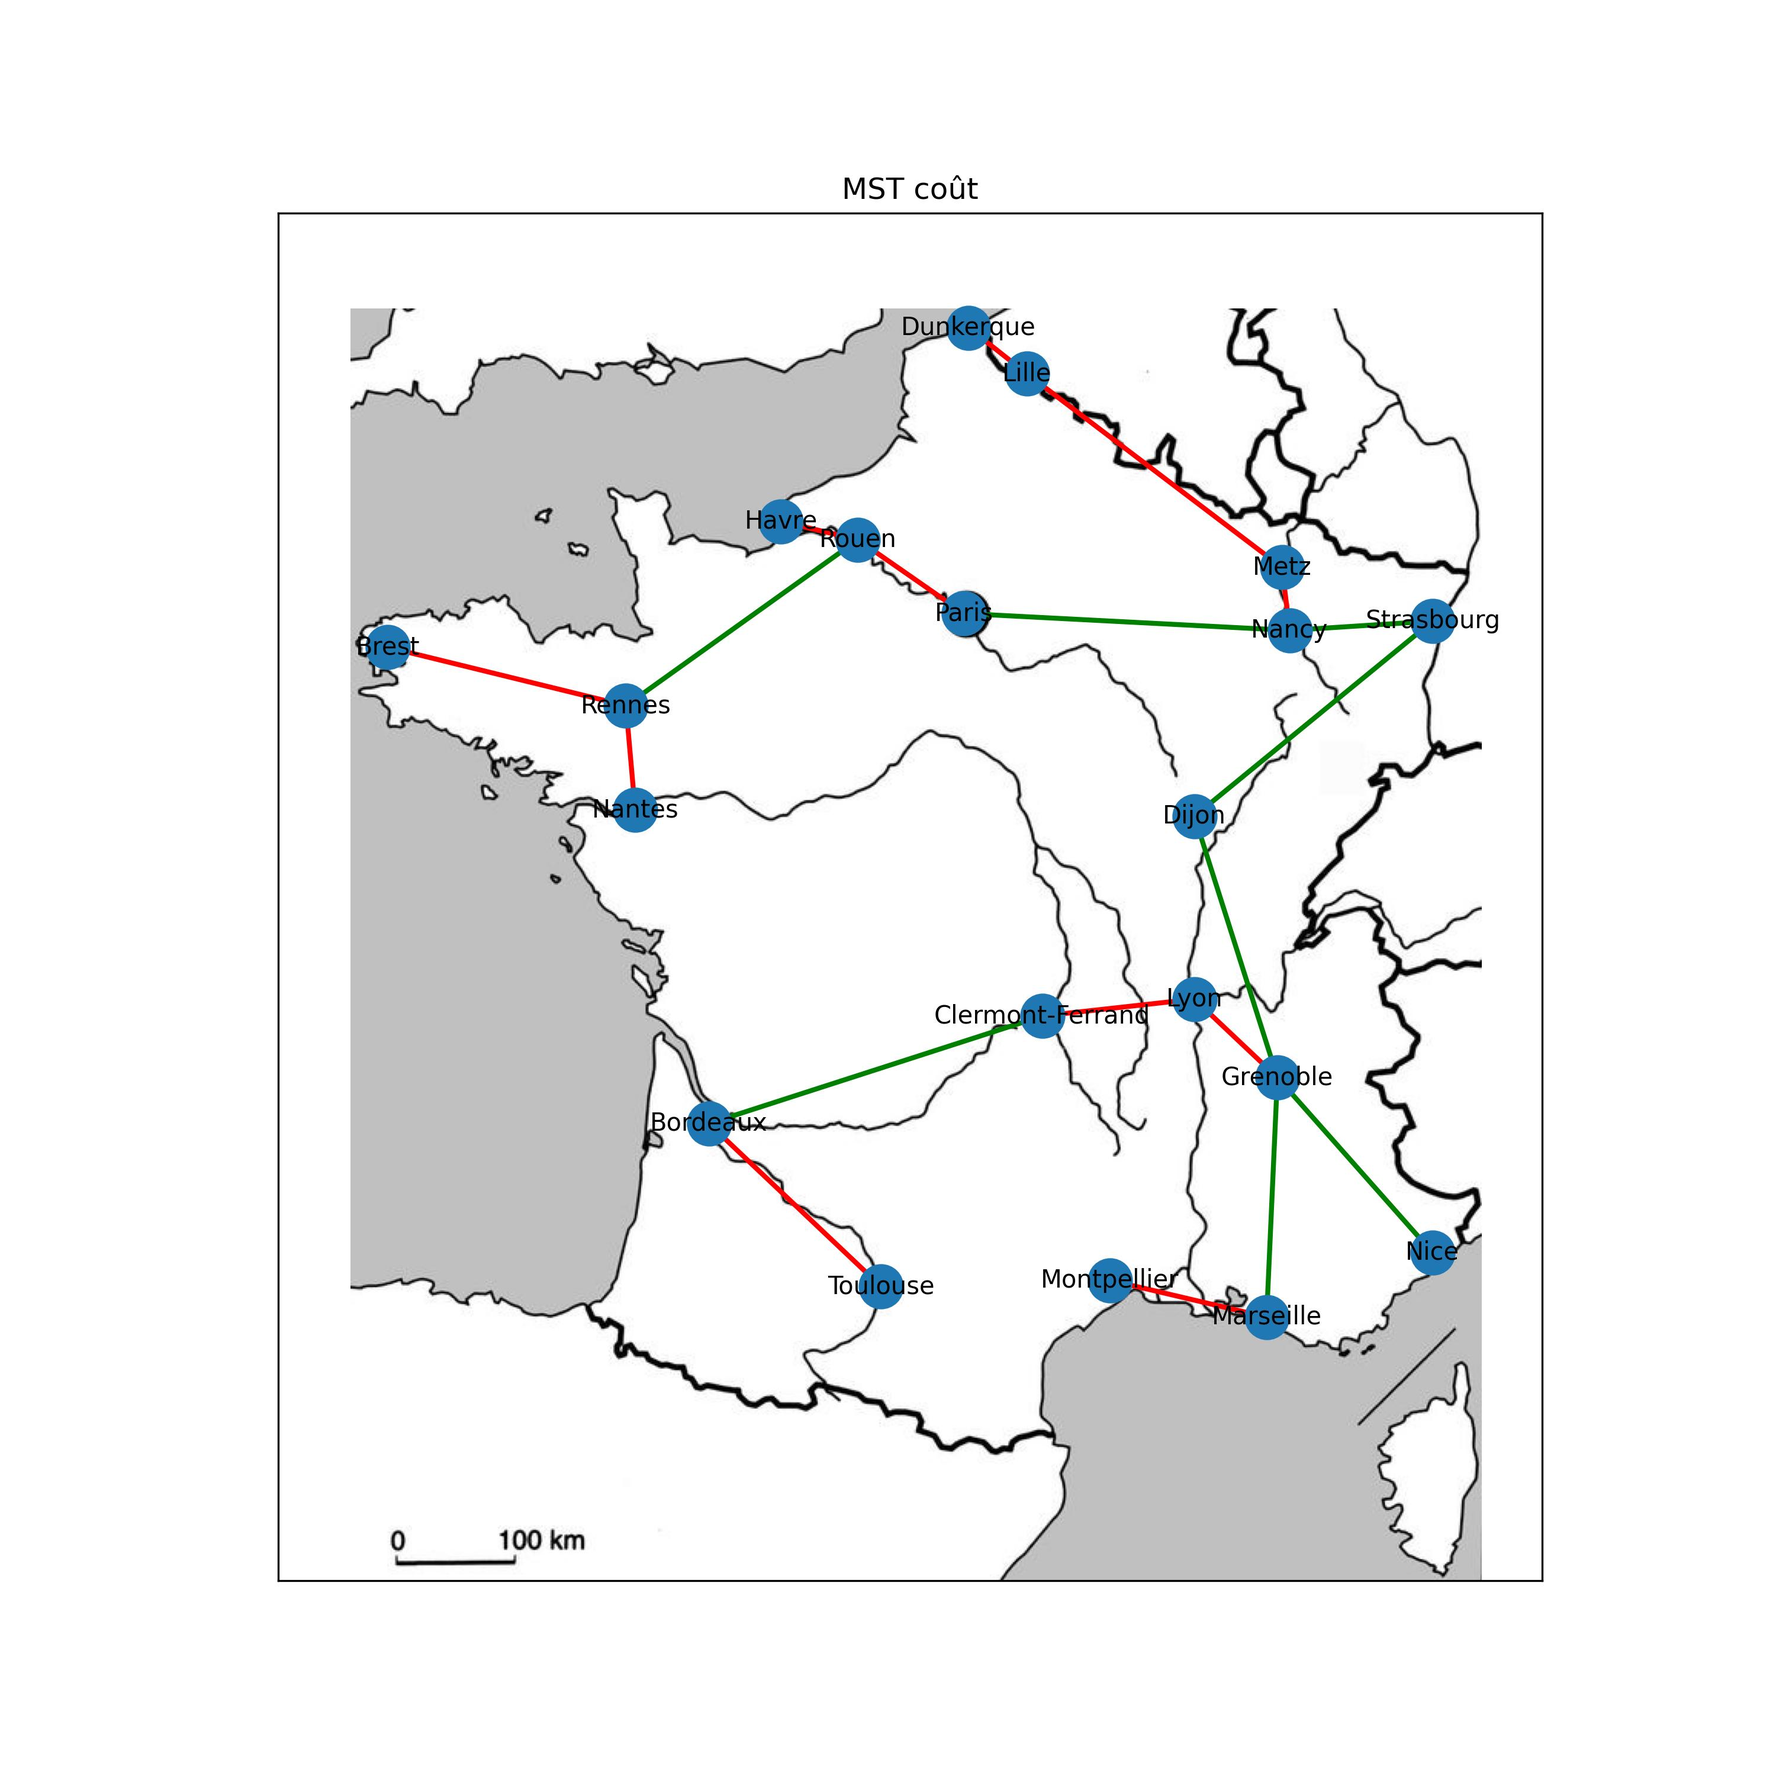
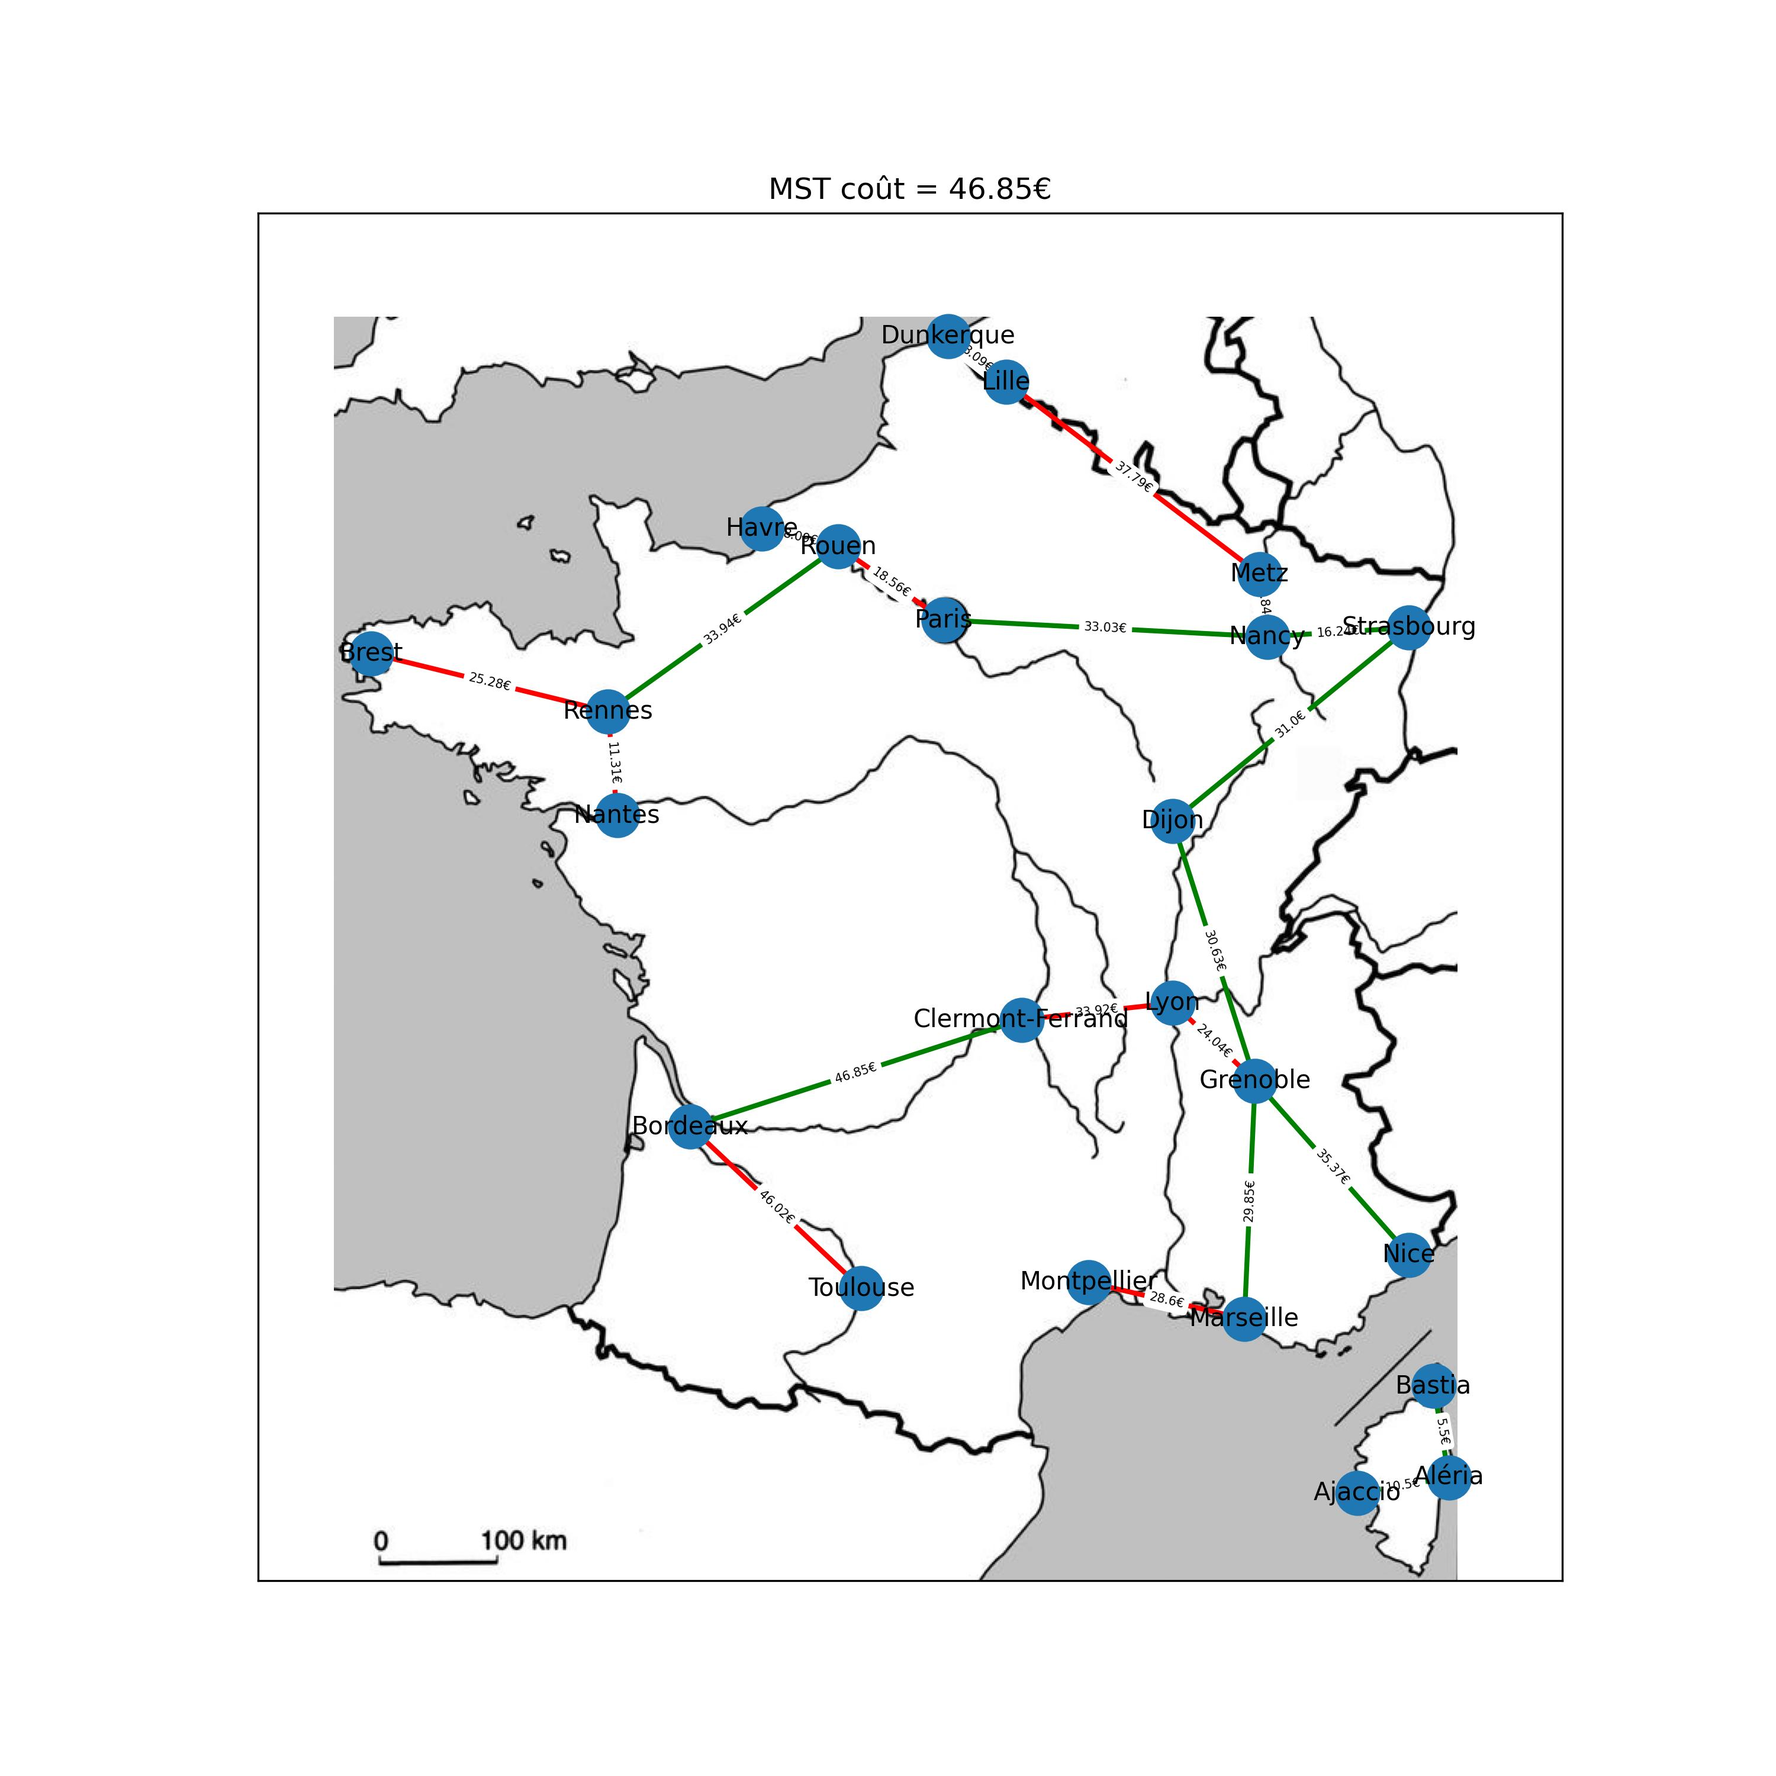
bonus MST manuel

diff --git a/TP2_carte_son.py b/TP2_carte_son.py
@@ -4,6 +4,7 @@ import networkx as nx
 import matplotlib.pyplot as plt
 import matplotlib.image as mpimg
 
+
 # Fonction pour charger CSV en matrice
 def charger_csv_en_matrice(nom_fichier) -> list:
     matrice = []
@@ -242,11 +243,11 @@ def meilleur_chemin(graphe, ville_depart, ville_arrivee, critere, debug=False) -
 
     # Etape 0: vérifier si les villes données sont valides
     if ville_depart not in graphe:
-        msg = f"{ville_depart} n'est pas présente dans la carte"
+        msg = f"    {ville_depart} n'est pas présente dans la carte"
         print(msg)        
         return [msg],0
     if ville_arrivee not in graphe:
-        msg = f"{ville_depart} n'est pas présente dans la carte"
+        msg = f"    {ville_depart} n'est pas présente dans la carte"
         print(msg)        
         return [msg],0
     if ville_depart==ville_arrivee:
@@ -272,7 +273,7 @@ def meilleur_chemin(graphe, ville_depart, ville_arrivee, critere, debug=False) -
 
         # Si nous avons déjà trouvé un chemin plus court pour 'u', ignorer cette entrée et reprendre la boucle WHILE
         if dist_nouvelle > distances[u]:
-            if debug: print(f'>>    On a déjà une distance plus petite pour {u} (actuelle {distances[u]}; nouvelle {dist_nouvelle})') 
+            if debug: print(f'>>    [IGNORE] On a déjà une distance plus petite pour {u} (actuelle {distances[u]}; nouvelle {dist_nouvelle})') 
             continue
         
         # Si la destination est atteinte, STOP la boucle While
@@ -287,16 +288,20 @@ def meilleur_chemin(graphe, ville_depart, ville_arrivee, critere, debug=False) -
             if debug: print(f'>>    De {u} à {v}: distance = {poids}') 
             
             nouvelle_distance = dist_nouvelle + poids
-            if debug: print(f'>>    Nouvelle distance de {v} = {nouvelle_distance}') 
+            if debug: print(f'>>    Nouvelle distance de {v} par rapport à {ville_depart} = {nouvelle_distance}')
+            if debug: print(f'>>    Pour {v}, on compare la distance notée ({distances[v]}) et la nouvelle distance ({nouvelle_distance})') 
 
             # 2b. Mettre à jour le poid du voisin v si on trouve un chemin plus court vers lui
             if nouvelle_distance < distances[v]:
                 distances[v] = nouvelle_distance
-                if debug: print(f'>>    Meilleure distance trouvée pour {v} = {nouvelle_distance}') 
+                if debug: print(f'>>    [MAJ] Pour {v}, la nouvelle distance trouvée est meilleure ({nouvelle_distance})') 
 
                 predecesseurs[v] = u
-                if debug: print(f'>>    Mettre à jour le chemin vers {v} en passant par {u}') 
+                if debug: print(f'>>    [MAJ] Mettre à jour le chemin vers {v} en passant par {u}\n') 
                 heapq.heappush(pq, (nouvelle_distance, v))
+            else: 
+                if debug: print(f'>>    [IGNORE] Pour {v}, la distance notée est meilleure ({distances[v]})\n') 
+
 
     # 3. Reconstruction du chemin
     meilleur_chemin = []
@@ -340,7 +345,7 @@ def connexe_manuel(graphe) -> tuple[bool, list]:
         if ville_depart in sommets_vu:
             continue
 
-        print(f"Exploration à partir de: {ville_depart}")
+        print(f"    Exploration à partir de: {ville_depart}")
 
         # DFS
         stack = [ville_depart]
@@ -357,7 +362,7 @@ def connexe_manuel(graphe) -> tuple[bool, list]:
                     stack.append(neighbor)
 
                     # Show progress
-                    print(f"{neighbor} est connectée")
+                    print(f"        {neighbor} est connectée")
 
         continents.append(continent)
 
@@ -403,10 +408,49 @@ def all_paths_with_costs(graphe, ville_depart, ville_arrivee, critere="cout"):
     return results
 
 # BONUS4: Kruskal MST
-def find_mst(graphe, critere="cout"):
-    T = nx.minimum_spanning_tree(graphe, weight=critere)
+def find_mst(graphe, critere="cout", debug=False):
+    # T = nx.minimum_spanning_tree(graphe, weight=critere)
     
-    return T
+    # manuel
+    def dfs_path_exists(T, source, target):
+        visited = set()
+        stack = [source]
+
+        while stack:
+            node = stack.pop()
+            if node == target:
+                return True
+            if node not in visited:
+                visited.add(node)
+                for voisin in T.neighbors(node):
+                    if voisin not in visited:
+                        stack.append(voisin)
+        return False
+
+    T = nx.Graph()
+    T.add_nodes_from(graphe.nodes(data=True))
+
+    heap = []
+    for u, v, data in graphe.edges(data=True):
+        poid = data[critere]
+        heapq.heappush(heap, (poid, u, v, data))
+
+    poids_total = 0
+
+    while heap:
+        poid, u, v, data = heapq.heappop(heap)
+        if not dfs_path_exists(T, u, v):
+            T.add_edge(u, v, **data)
+            poids_total =+ poid
+            if debug: print(f'>>  [MAJ]     {poid}, {u} - {v}, {data}')
+        else:
+            if debug: print(f'>>  [IGNORE]  {u} - {v} forme une boucle')
+
+        if T.number_of_edges() == graphe.number_of_nodes() - 1:
+            break
+
+    return T, poids_total
+
 
 
 
@@ -457,85 +501,85 @@ if __name__ == "__main__":
 
     # =================================================================================================
     
-    # Q1
-    est_connexe, continents = connexe_manuel(G)
-    if est_connexe:
-        connexe = "est connexe"
-    else: connexe = "n'est pas connexe"
-    print()
-    print(f"Q1: Le graphe {connexe}")
-
-    print(f"Le graphe contient {len(continents)} groupe(s) connexe(s)")
-    for continent in continents:
-        print(f"    Continent ({continents.index(continent)+1}) contient {len(continent)} villes(s):")
-        for ville in continent:
-            print(f"    - {ville}")
+    # # Q1
+    # print(f"Q1: Le graphe est-il connexe ?")
+    # est_connexe, continents = connexe_manuel(G)
+    # if est_connexe:
+    #     connexe = "est connexe"
+    # else: connexe = "n'est pas connexe"
+    # print(f"---> Le graphe {connexe}")
+    # print()
+    # print(f"Le graphe contient {len(continents)} groupe(s) connexe(s)")
+    # for continent in continents:
+    #     print(f"    Continent ({continents.index(continent)+1}) contient {len(continent)} villes(s):")
+    #     for ville in continent:
+    #         print(f"    - {ville}")
         
-    dessiner_graphe_sur_carte(G, chemin_image_carte, titre=f"graphe {connexe}", export_path="carte_initiale.jpg")
+    # dessiner_graphe_sur_carte(G, chemin_image_carte, titre=f"graphe {connexe}", export_path="carte_initiale.jpg")
 
 
 
-    # Q2 - chemin le plus court
-    ville_depart="Paris"
-    ville_arrivee="Bastia"
+    # # Q2 - chemin le plus court
+    # ville_depart="Paris"
+    # ville_arrivee="Bastia"
 
-    # optimisation pour reduire le nombre de checks
-    if not est_connexe:
-        for continent in continents:
-            if ville_depart in continent:
-                continent_depart = continent
-            if ville_arrivee in continent:
-                continent_arrivee = continent
-        if len(continent_depart) > len(continent_arrivee):
-            tmp = ville_depart 
-            ville_depart = ville_arrivee
-            ville_arrivee = tmp
+    # # optimisation pour reduire le nombre de checks
+    # if not est_connexe:
+    #     for continent in continents:
+    #         if ville_depart in continent:
+    #             continent_depart = continent
+    #         if ville_arrivee in continent:
+    #             continent_arrivee = continent
+    #     if len(continent_depart) > len(continent_arrivee):
+    #         tmp = ville_depart 
+    #         ville_depart = ville_arrivee
+    #         ville_arrivee = tmp
 
-    print(f"Q2: Chemin le plus court entre : {ville_depart} et {ville_arrivee}")
-    chemin_duree, poids_total = meilleur_chemin(graphe=G, ville_depart=ville_depart, ville_arrivee=ville_arrivee, critere='duree', debug=True)
-    dessiner_graphe_sur_carte_avec_chemin(chemin_duree, G, chemin_image_carte, titre='chemin le plus court', critere='duree', poids_total=poids_total)
-
-
-
-    # Q3 - chemin le moins cher
-    ville_depart="Paris"
-    ville_arrivee="Marseille"
-    print(f"Q3: Chemin le moins cher entre : {ville_depart} et {ville_arrivee}")
-    chemin_cout, poids_total = meilleur_chemin(graphe=G, ville_depart=ville_depart, ville_arrivee=ville_arrivee, critere='cout')
-    dessiner_graphe_sur_carte_avec_chemin(chemin_cout, G, chemin_image_carte, titre='chemin le moins cher', critere='cout', poids_total=poids_total)
+    # print(f"Q2: Chemin le plus court entre {ville_depart} et {ville_arrivee}")
+    # chemin_duree, poids_total = meilleur_chemin(graphe=G, ville_depart=ville_depart, ville_arrivee=ville_arrivee, critere='duree', debug=True)
+    # dessiner_graphe_sur_carte_avec_chemin(chemin_duree, G, chemin_image_carte, titre='chemin le plus court', critere='duree', poids_total=poids_total)
 
 
 
-    # Q4 - chemin le plus court SANS autoroutes
-    ville_depart="Paris"
-    ville_arrivee="Havre"
+    # # Q3 - chemin le moins cher
+    # ville_depart="Paris"
+    # ville_arrivee="Marseille"
+    # print(f"Q3: Chemin le moins cher entre {ville_depart} et {ville_arrivee}")
+    # chemin_cout, poids_total = meilleur_chemin(graphe=G, ville_depart=ville_depart, ville_arrivee=ville_arrivee, critere='cout', debug=True)
+    # dessiner_graphe_sur_carte_avec_chemin(chemin_cout, G, chemin_image_carte, titre='chemin le moins cher', critere='cout', poids_total=poids_total)
+
+
+
+    # # Q4 - chemin le plus court SANS autoroutes
+    # ville_depart="Paris"
+    # ville_arrivee="Havre"
     
-    print(f"Q4: Chemin le plus court SANS autoroutes entre : {ville_depart} et {ville_arrivee}")
-    G_filtre = filtre_graphe(G,'a')
-    dessiner_graphe_sur_carte(G_filtre, chemin_image_carte, titre="Carte sans autoroutes", show_duree=True, export_path="carte_sans_autoroute_avec_duree.jpg")
-    chemin_duree_sans_a, poids_total = meilleur_chemin(graphe=G_filtre, ville_depart=ville_depart, ville_arrivee=ville_arrivee, critere='duree')
-    dessiner_graphe_sur_carte_avec_chemin(chemin_duree_sans_a, G_filtre, chemin_image_carte, titre='chemin le plus court', critere='duree', poids_total=poids_total, contrainte="sans autoroutes")
+    # print(f"Q4: Chemin le plus court entre {ville_depart} et {ville_arrivee} SANS autoroutes")
+    # G_filtre = filtre_graphe(G,'a')
+    # dessiner_graphe_sur_carte(G_filtre, chemin_image_carte, titre="Carte sans autoroutes", show_duree=True, export_path="carte_sans_autoroute_avec_duree.jpg")
+    # chemin_duree_sans_a, poids_total = meilleur_chemin(graphe=G_filtre, ville_depart=ville_depart, ville_arrivee=ville_arrivee, critere='duree')
+    # dessiner_graphe_sur_carte_avec_chemin(chemin_duree_sans_a, G_filtre, chemin_image_carte, titre='chemin le plus court', critere='duree', poids_total=poids_total, contrainte="sans autoroutes")
 
-    # Q5 - chemin le moins cher SANS routes départementales
-    ville_depart="Rouen"
-    ville_arrivee="Nice"
+    # # Q5 - chemin le moins cher SANS routes départementales
+    # ville_depart="Rouen"
+    # ville_arrivee="Nice"
 
-    print(f"Q5: Chemin le moins cher SANS routes départementales entre : {ville_depart} et {ville_arrivee}")
-    G_filtre = filtre_graphe(G,'d')
-    dessiner_graphe_sur_carte(G_filtre, chemin_image_carte, titre="Carte sans routes départementales", show_cout=True, export_path="carte_sans_dept_avec_cout.jpg")
-    chemin_cout_sans_d, poids_total = meilleur_chemin(graphe=G_filtre, ville_depart=ville_depart, ville_arrivee=ville_arrivee, critere='cout')
-    dessiner_graphe_sur_carte_avec_chemin(chemin_cout_sans_d, G_filtre, chemin_image_carte, titre='chemin le moins cher', critere='cout', poids_total=poids_total, contrainte="sans routes départementales")
+    # print(f"Q5: Chemin le moins cher entre {ville_depart} et {ville_arrivee} SANS routes départementales")
+    # G_filtre = filtre_graphe(G,'d')
+    # dessiner_graphe_sur_carte(G_filtre, chemin_image_carte, titre="Carte sans routes départementales", show_cout=True, export_path="carte_sans_dept_avec_cout.jpg")
+    # chemin_cout_sans_d, poids_total = meilleur_chemin(graphe=G_filtre, ville_depart=ville_depart, ville_arrivee=ville_arrivee, critere='cout')
+    # dessiner_graphe_sur_carte_avec_chemin(chemin_cout_sans_d, G_filtre, chemin_image_carte, titre='chemin le moins cher', critere='cout', poids_total=poids_total, contrainte="sans routes départementales")
 
-    # Q5-bonus - chemin le moins cher SANS routes départementales SANS quelques villes
-    ville_depart="Rouen"
-    ville_arrivee="Toulouse"
-    villes_exclues=["Paris","Marseille"]
+    # # Q5a - chemin le moins cher SANS routes départementales SANS quelques villes
+    # ville_depart="Rouen"
+    # ville_arrivee="Toulouse"
+    # villes_exclues=["Paris","Marseille"]
 
-    print(f"Q5-bonus: Chemin le moins cher SANS routes départementales et sans passer par {villes_exclues} entre : {ville_depart} et {ville_arrivee}")
-    G_filtre = filtre_graphe(G,type_a_exclure='d',ville_a_exclure=villes_exclues)
-    dessiner_graphe_sur_carte(G_filtre, chemin_image_carte, titre="Carte sans routes départementales", show_cout=True, export_path="carte_sans_dept_avec_cout_exclure_villes.jpg")
-    chemin_cout_sans_d, poids_total = meilleur_chemin(graphe=G_filtre, ville_depart=ville_depart, ville_arrivee=ville_arrivee, critere='cout')
-    dessiner_graphe_sur_carte_avec_chemin(chemin_cout_sans_d, G_filtre, chemin_image_carte, titre='chemin le moins cher', critere='cout', poids_total=poids_total, contrainte="sans routes départementales")
+    # print(f"Q5a: Chemin le moins cher entre {ville_depart} et {ville_arrivee} SANS routes départementales et SANS passer par {villes_exclues}")
+    # G_filtre = filtre_graphe(G,type_a_exclure='d',ville_a_exclure=villes_exclues)
+    # dessiner_graphe_sur_carte(G_filtre, chemin_image_carte, titre="Carte sans routes départementales", show_cout=True, export_path="carte_sans_dept_avec_cout_exclure_villes.jpg")
+    # chemin_cout_sans_d, poids_total = meilleur_chemin(graphe=G_filtre, ville_depart=ville_depart, ville_arrivee=ville_arrivee, critere='cout')
+    # dessiner_graphe_sur_carte_avec_chemin(chemin_cout_sans_d, G_filtre, chemin_image_carte, titre='chemin le moins cher', critere='cout', poids_total=poids_total, contrainte="sans routes départementales")
 
 
 
@@ -602,12 +646,16 @@ if __name__ == "__main__":
     #     print(path)
 
 
-    # # BONUS4 - afficher l'arbre couvrant poid minimum (MST)
-    # T_cout = find_mst(G,'cout')
-    # dessiner_graphe_sur_carte(T_cout, sommets, chemin_image_carte, "MST coût", export_path="mst_cout.jpg")
+    # BONUS4 - afficher l'arbre couvrant poid minimum (MST)
+    
+    T_cout, poids_total = find_mst(G,'cout', debug = True)
+    print(f"Bonus 4a: Arbre couvrant au meilleur cout {poids_total}€")
+    dessiner_graphe_sur_carte(T_cout, chemin_image_carte, f"MST coût = {poids_total}€", show_cout=True, export_path="mst_cout.jpg")
+    
 
-    # T_duree = find_mst(G,'duree')
-    # dessiner_graphe_sur_carte(T_duree, sommets, chemin_image_carte, "MST durée", export_path="mst_duree.jpg")
+    T_duree, poids_total = find_mst(G,'duree', debug = True)
+    print(f"Bonus 4a: Arbre couvrant au meilleur temps {poids_total} minutes")
+    dessiner_graphe_sur_carte(T_duree, chemin_image_carte, f"MST durée = {poids_total} minutes", show_duree=True, export_path="mst_duree.jpg")
 
     
 
